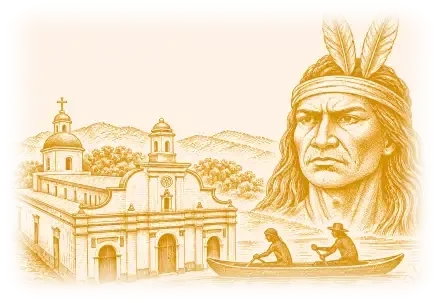
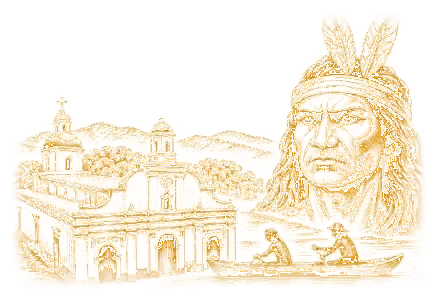
style(historia): convertir ilustraciones a grabados transparentes integrados en el pergamino con mix-blend-mode multiply

diff --git a/src/app/pages/historia/historia.css b/src/app/pages/historia/historia.css
@@ -185,16 +185,20 @@
   aspect-ratio: 4 / 3;
   border-radius: 10px;
   overflow: hidden;
-  box-shadow: 0 6px 18px rgba(96, 65, 24, 0.12);
-  border: 1px solid rgba(200, 150, 46, 0.35);
-  background: #eae0ce;
+  box-shadow: none;
+  border: none;
+  background: transparent;
+  display: flex;
+  align-items: center;
+  justify-content: center;
 }
 
 .featured-card-img {
   width: 100%;
   height: 100%;
-  object-fit: cover;
+  object-fit: contain;
   display: block;
+  mix-blend-mode: multiply;
   transition: transform 0.4s ease;
 }
 
@@ -321,18 +325,19 @@
   object-fit: contain;
   display: block;
   border-radius: 0;
-  transition: transform 0.32s cubic-bezier(0.2, 0.9, 0.3, 1), filter 0.32s ease;
-  filter: drop-shadow(0 4px 10px rgba(180, 140, 50, 0.08));
+  mix-blend-mode: multiply;
+  transition: transform 0.32s cubic-bezier(0.2, 0.9, 0.3, 1), filter 0.32s ease, opacity 0.25s ease;
+  filter: contrast(1.04);
 }
 
 .gallery-item-card:hover .gallery-thumb-img {
   transform: scale(1.06);
-  filter: drop-shadow(0 10px 22px rgba(180, 130, 40, 0.24));
+  filter: contrast(1.08) drop-shadow(0 4px 12px rgba(180, 130, 40, 0.25));
 }
 
 .gallery-item-card.selected .gallery-thumb-img {
   transform: scale(1.05);
-  filter: drop-shadow(0 8px 20px rgba(22, 84, 45, 0.32));
+  filter: contrast(1.10) drop-shadow(0 4px 14px rgba(22, 84, 45, 0.35));
 }
 
 .gallery-item-card:focus-visible {
@@ -340,7 +345,7 @@
 }
 
 .gallery-item-card:focus-visible .gallery-thumb-img {
-  filter: drop-shadow(0 0 14px rgba(200, 150, 46, 0.5));
+  filter: drop-shadow(0 0 12px rgba(200, 150, 46, 0.5));
 }
 
 /* ==========================================================================
